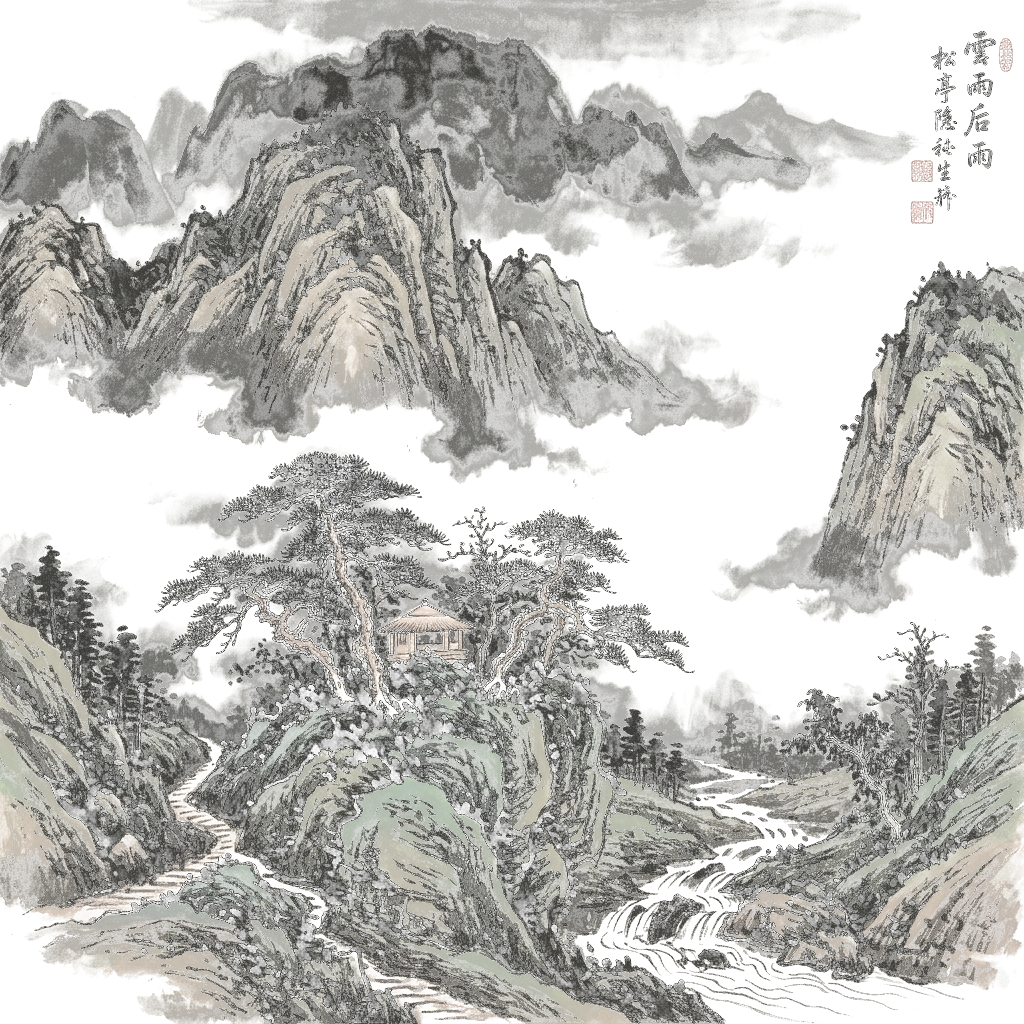
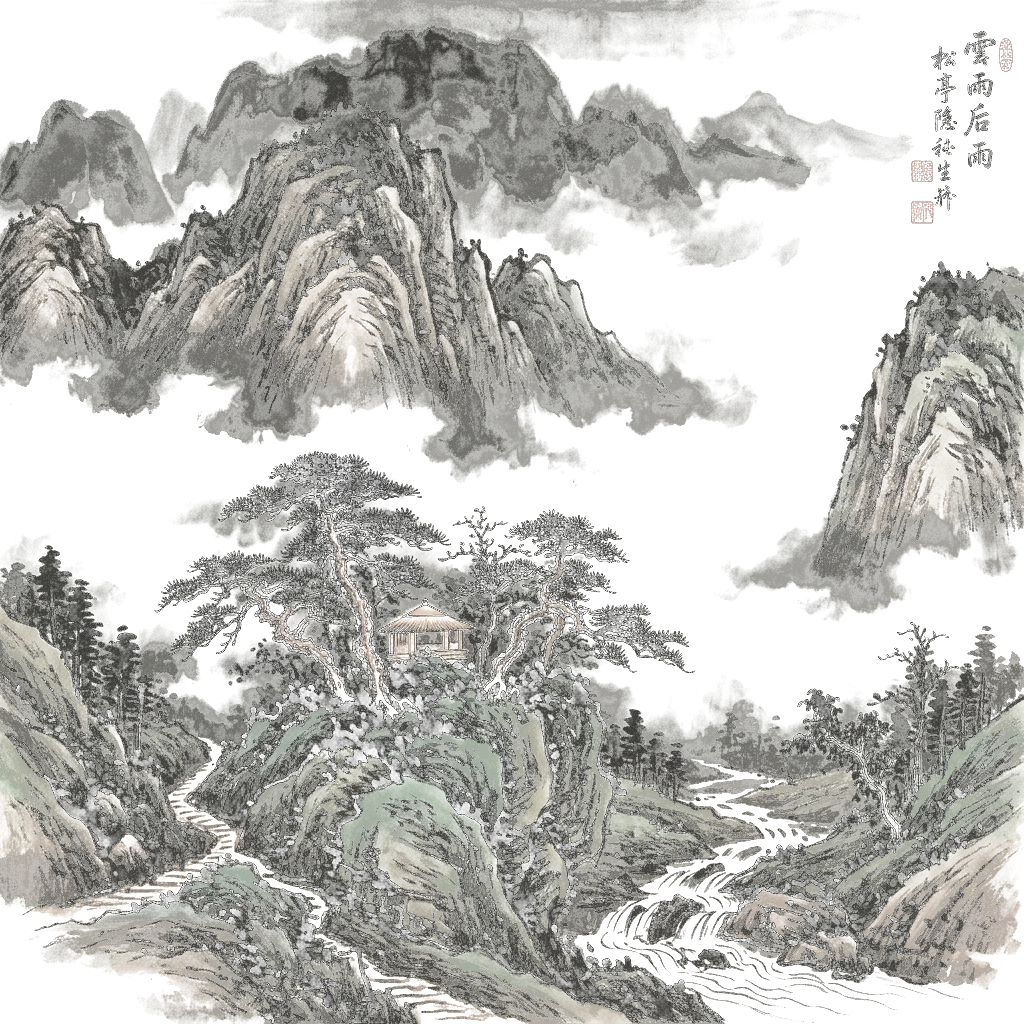
fix: remove TRANSPARENT from redraw/regen prompts — Gemini draws checkerboard
Root cause: Gemini can't generate real transparency, so "TRANSPARENT
background" in prompts caused it to paint a gray/white checkerboard
pattern into the pixel data (mimicking PS transparency indicator).

Fix: replace with "plain white background, no checkerboard patterns".
Re-generated scenario1 sunset image — now clean.

diff --git a/src/vulca/layers/redraw.py b/src/vulca/layers/redraw.py
@@ -24,7 +24,7 @@ def _build_redraw_prompt(
     parts = [instruction.strip()]
     if descriptions:
         parts.append("Layer context: " + "; ".join(d for d in descriptions if d))
-    parts.append("TRANSPARENT background — output must be RGBA with transparency preserved.")
+    parts.append("Generate a complete image filling the entire canvas. Do NOT include any checkerboard pattern, grid, or transparency indicators — output a fully painted image.")
     if canvas_size:
         parts.append(f"Canvas size: {canvas_size}.")
     if tradition and tradition != "default":

diff --git a/src/vulca/layers/prompt.py b/src/vulca/layers/prompt.py
@@ -112,7 +112,7 @@ def build_regeneration_prompt(
 
     parts = [
         base,
-        f"TRANSPARENT background.",
+        f"Paint ONLY this layer's content on a plain white background. Do NOT draw checkerboard patterns or transparency grids.",
         f"Canvas size: {width}x{height}.",
     ]
 
